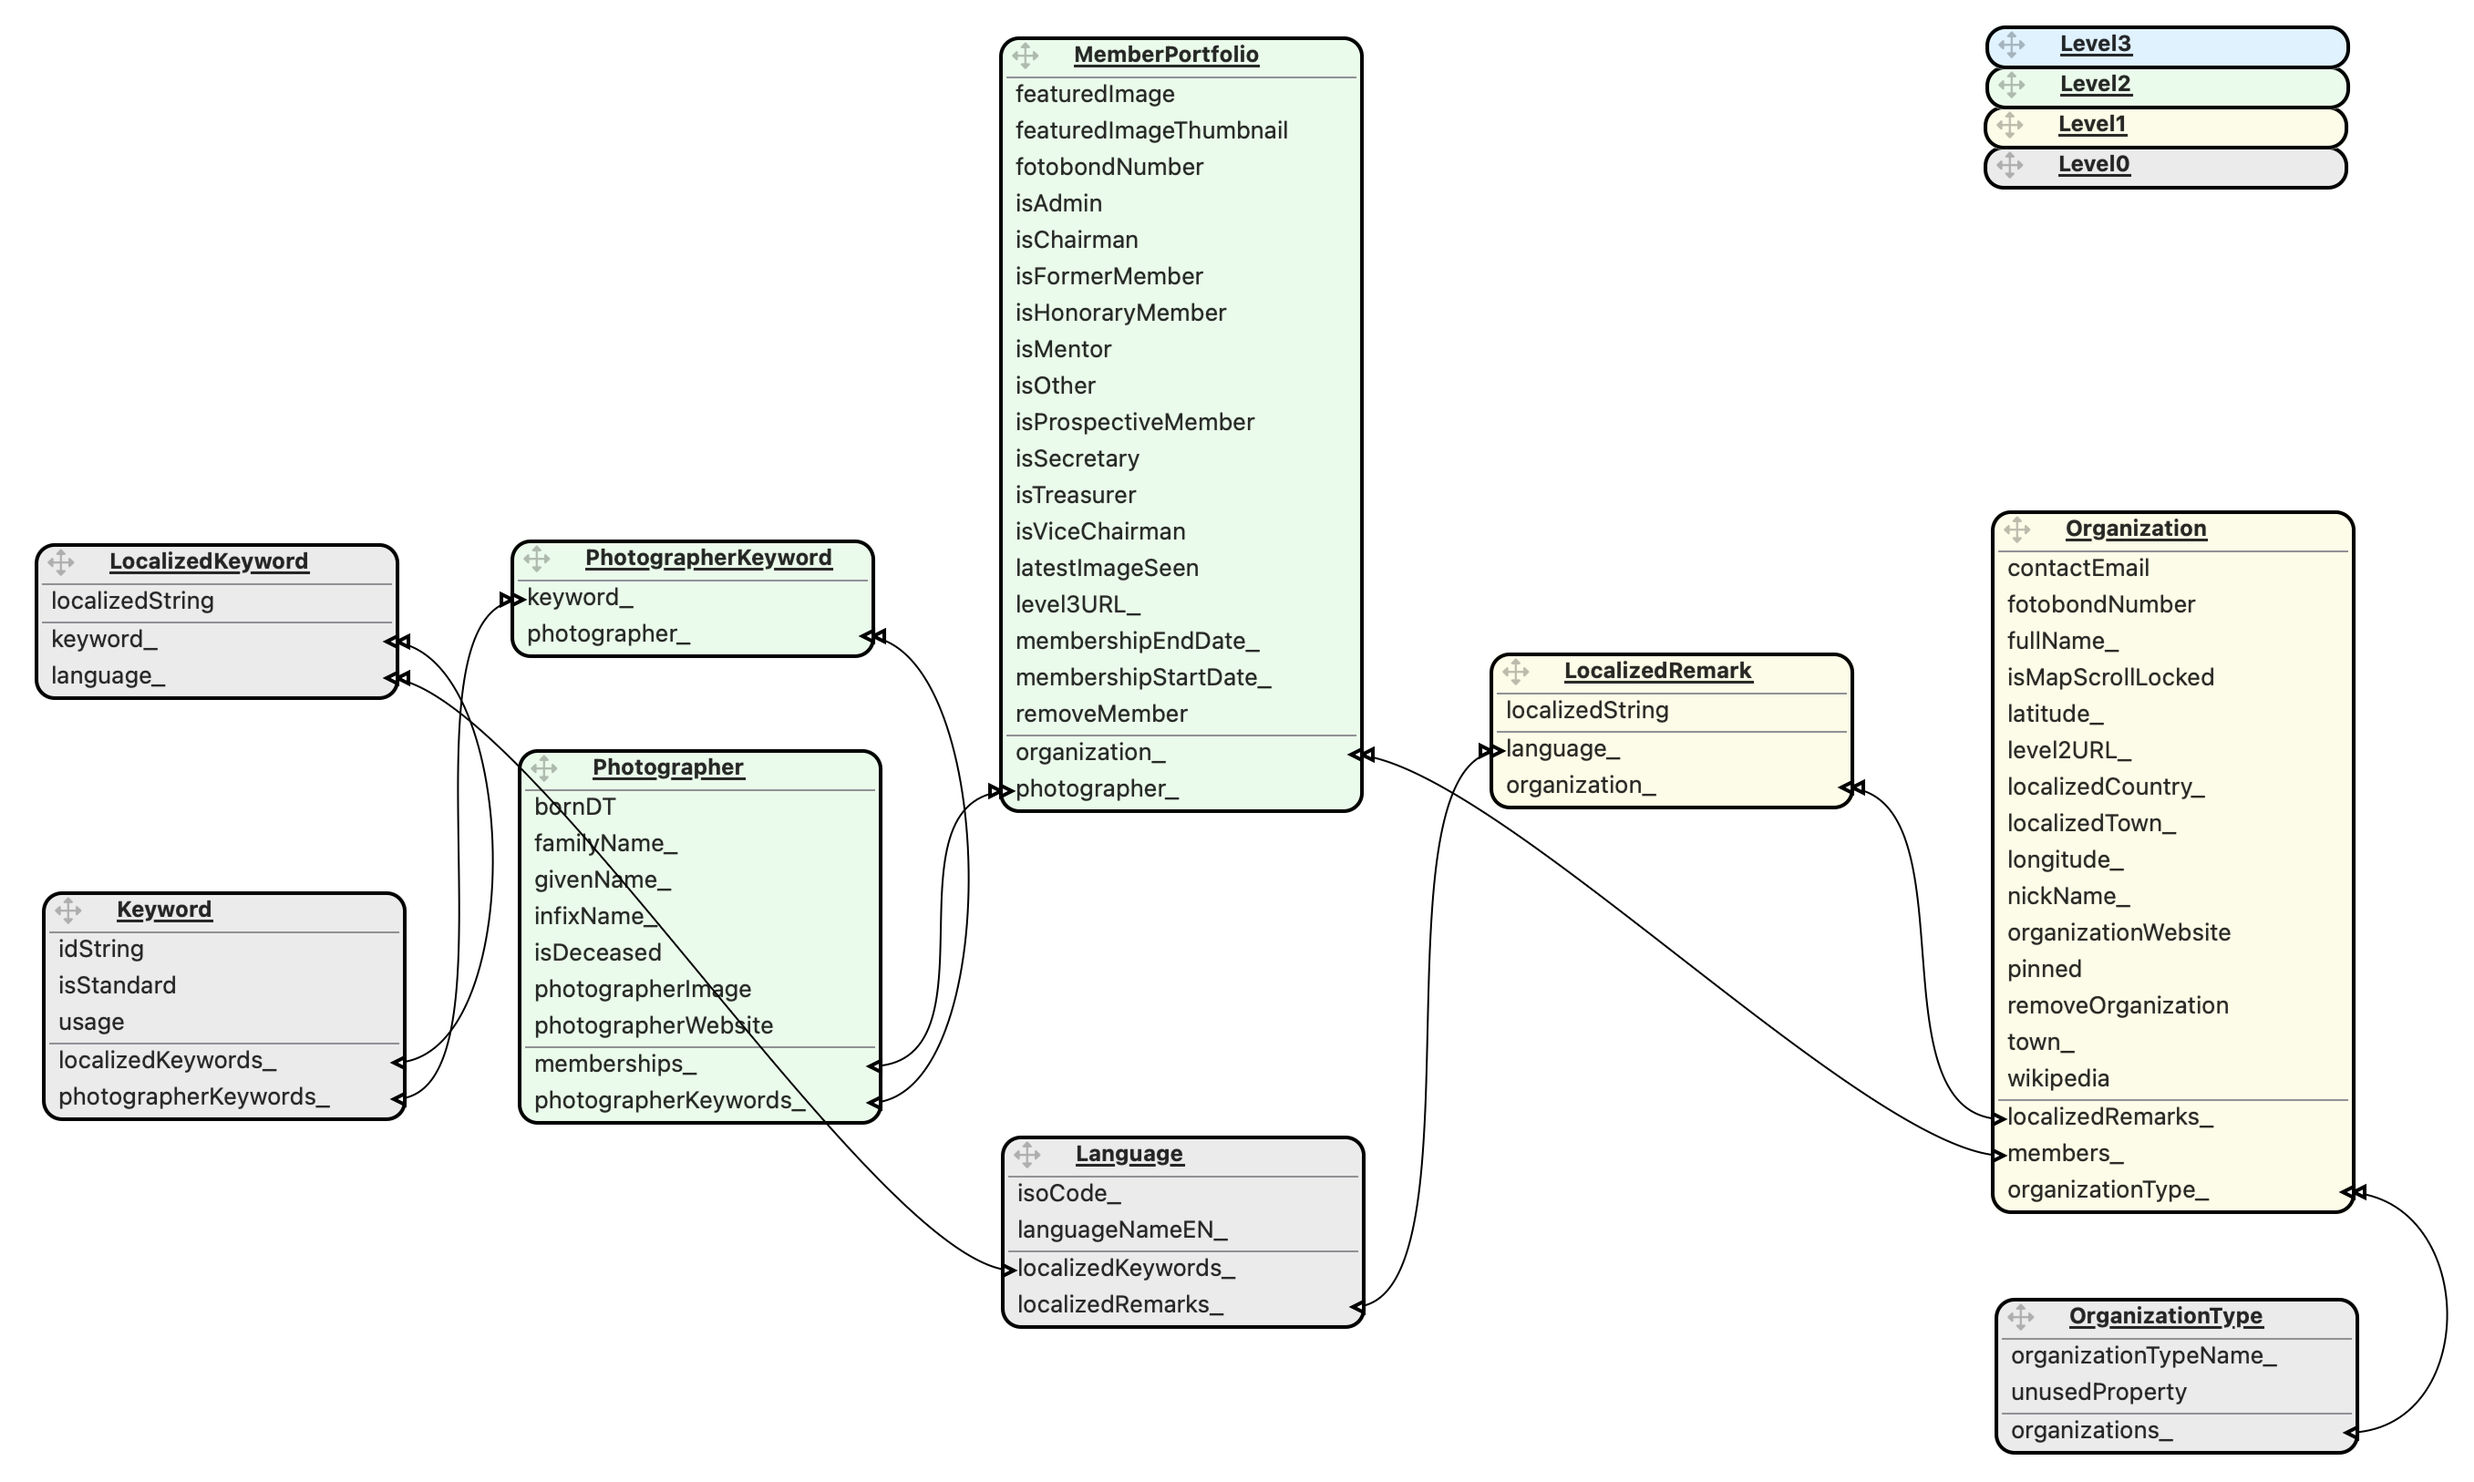
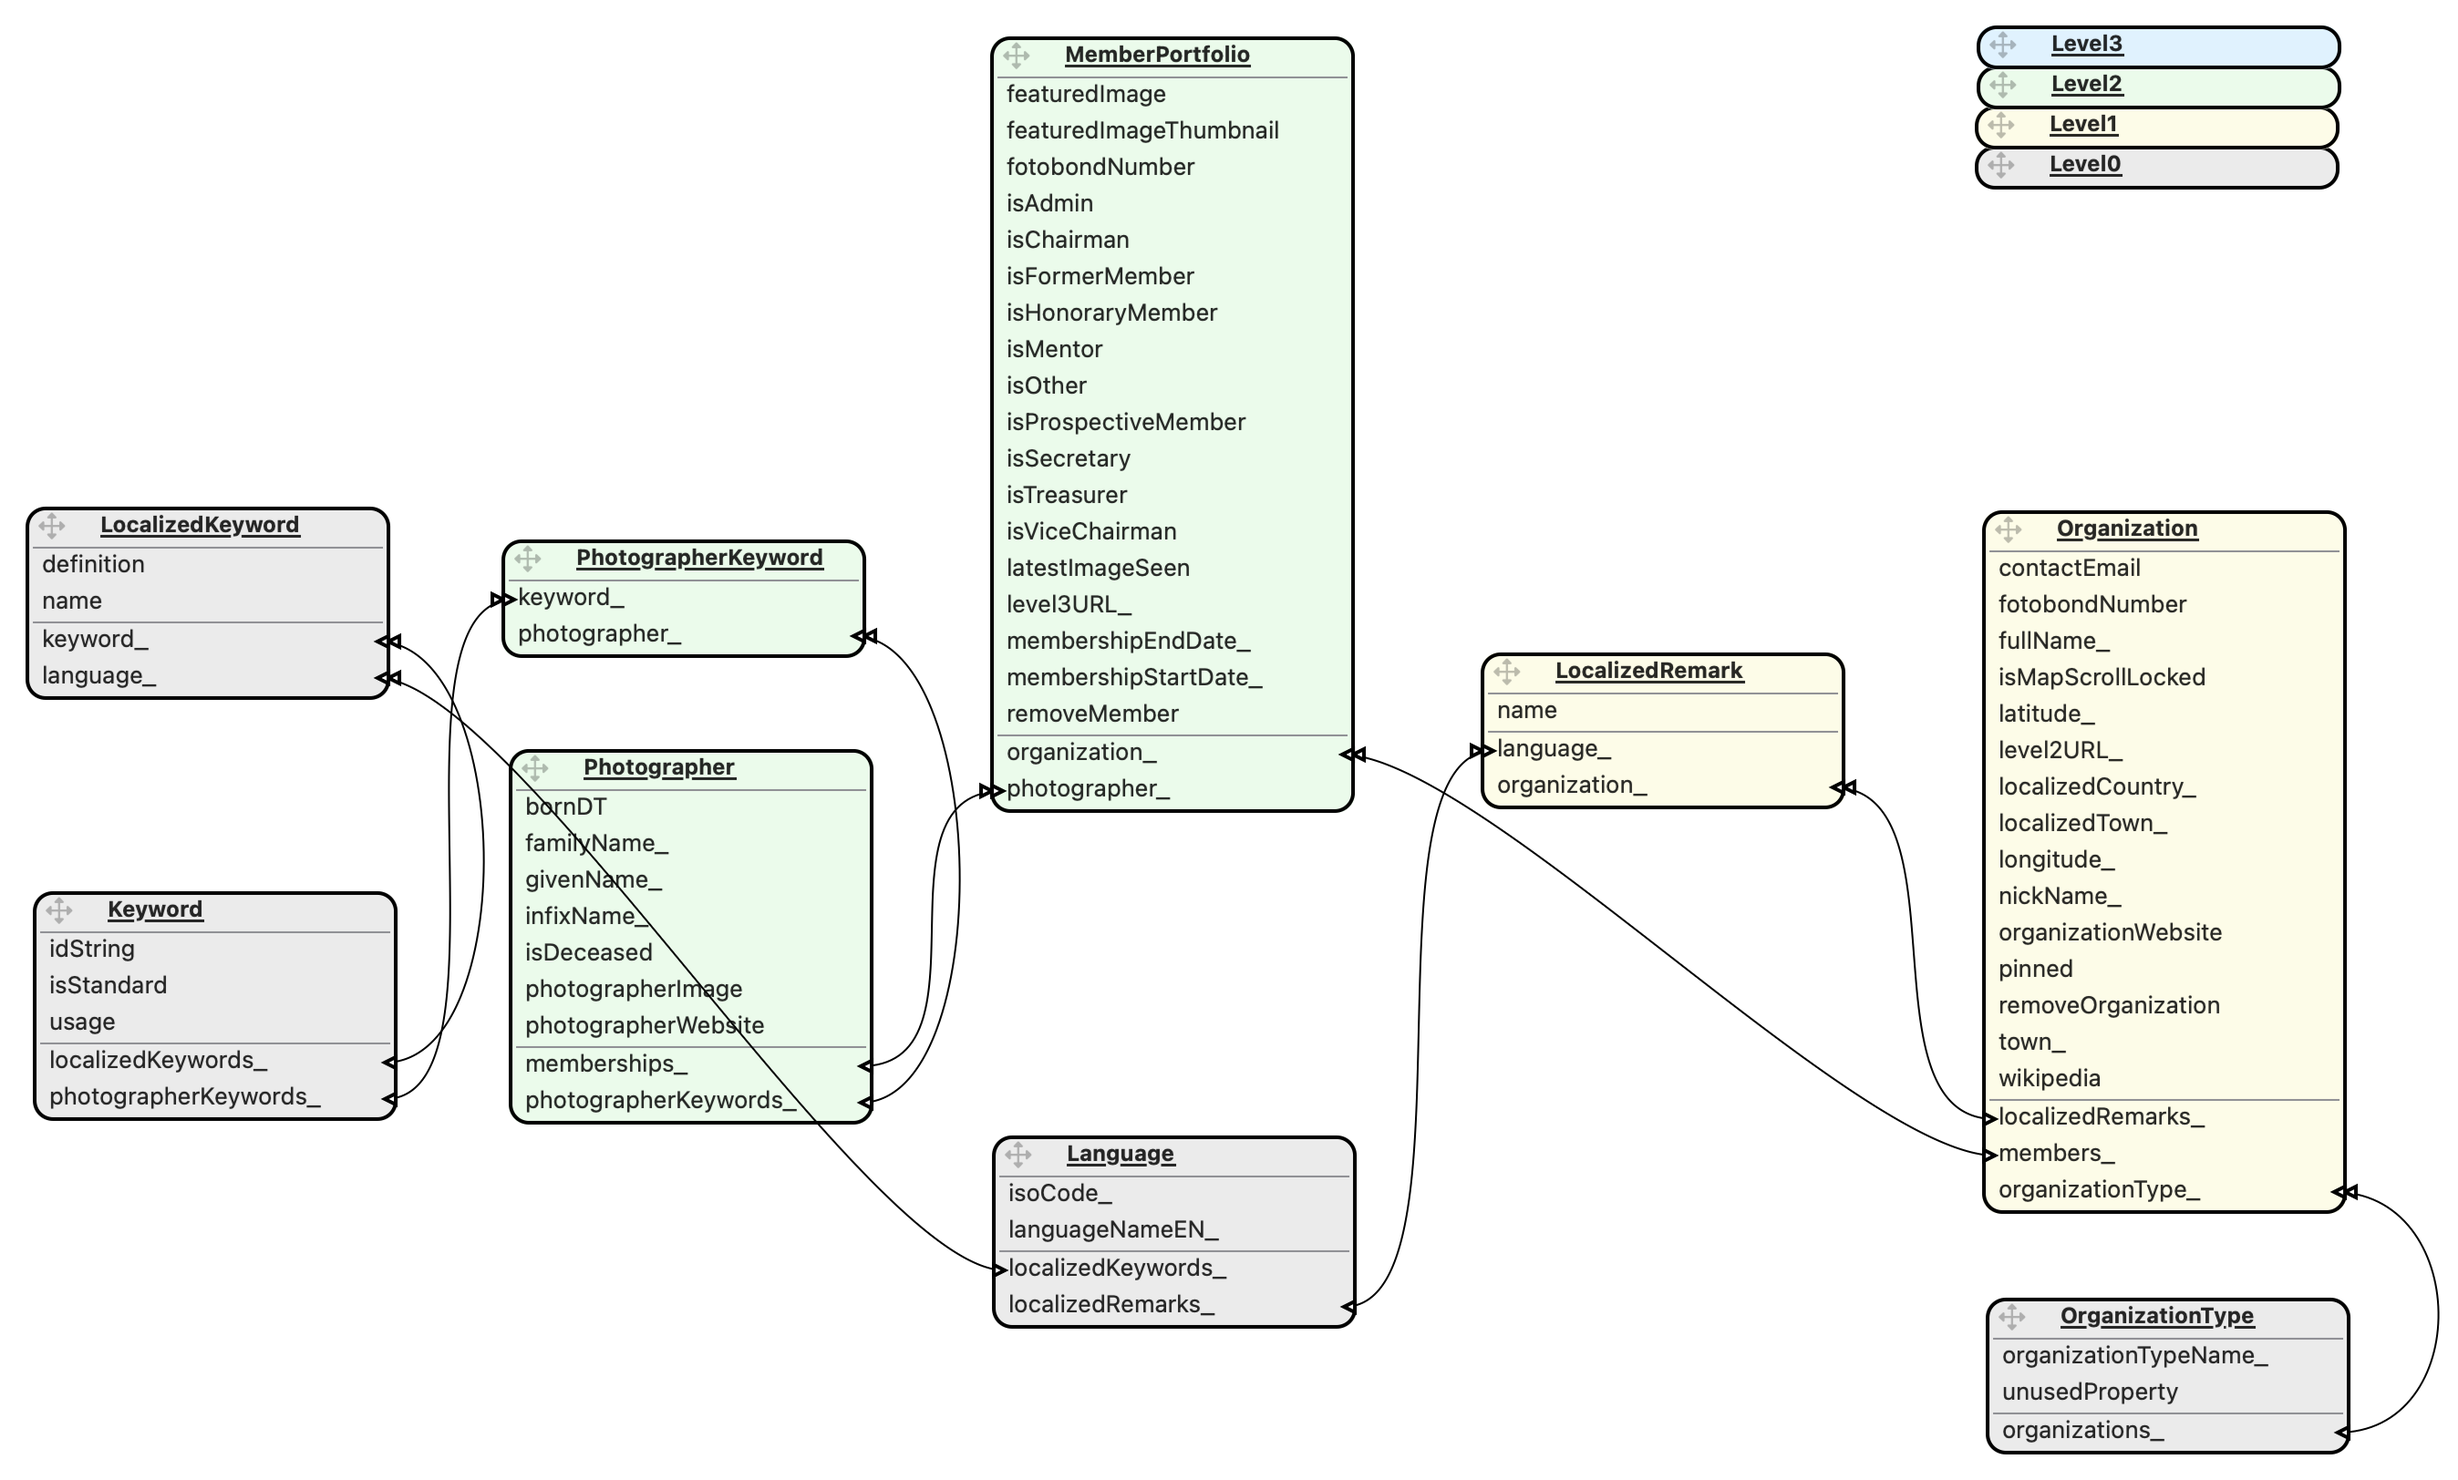
Updated dataModel.png file
Former-commit-id: e397b937fee5eb9fa0c2df1efeacfc9cfe146d23

diff --git a/.github/README.md b/.github/README.md
@@ -525,7 +525,7 @@ You may want to skip reading about `Level 0` on a first reading, as it only desc
                 { "language": "NL", "localizedString": "Zwart-wit" }
             ],
             "optional": {
-                "description": [
+                "definition": [
                     { "language": "EN", "localizedString": "Grayscale, sepia or other monochrome images" }
                 ]
             }
@@ -571,7 +571,7 @@ Additional translations are fine, and will be used where appropriate.
 
 <ul><details><Summary>Optional Level 0 fields (click to expand)</Summary></p>
 
-- `description` (within a `keyword`) is a text string defining the intention of the keyword. In the code we unfortunately had to call it `explanation` because `description` is a reserved name in Swift. The description text can be provided in multiple languages (typically EN and NL).
+- `definition` (within a `keyword`) is a text string defining the intention of the keyword. In the code we unfortunately had to call it `definition` because `description` is a reserved property name in Swift code. The defining text can be provided in multiple languages (typically EN and NL).
 </details></ul>
 
 ### Level 1. Adding Clubs
